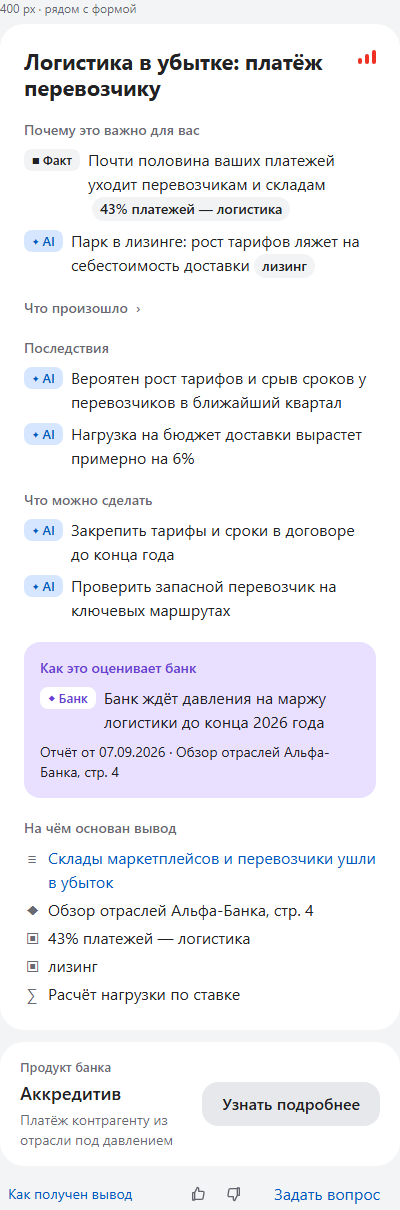
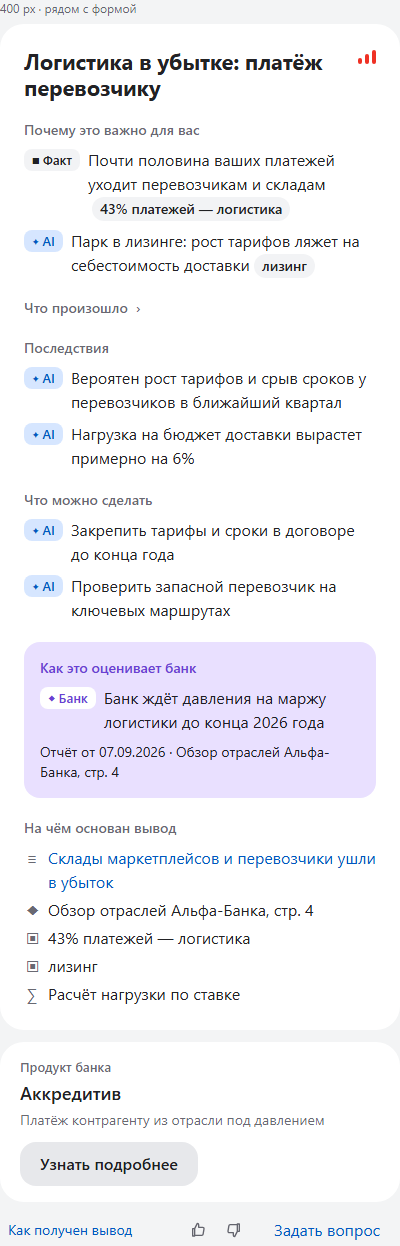
- Главная без растянутых пустот: строки сетки по содержимому, события ленты идут подряд, плитки счёта, платежа, депозита и кредитов по высоте содержимого; столбики на плитке счёта компактнее и не наезжают на номер счёта - Заголовки внутри карточек («Платёж контрагенту», «Кредитный портфель») — 22 px

diff --git a/frontend/application/src/styles/dashboard.css b/frontend/application/src/styles/dashboard.css
@@ -1,14 +1,11 @@
 .dashboard-grid {
   display: grid;
   grid-template-columns: repeat(3, minmax(0, 1fr)) repeat(2, minmax(0, 0.9fr));
-  grid-template-rows: repeat(4, minmax(132px, 1fr));
   grid-template-areas:
-    "feed  feed  feed  acct    acct"
     "feed  feed  feed  acct    acct"
     "feed  feed  feed  pay     pay"
     "loans loans loans deposit deposit";
   gap: var(--s-4);
-  min-height: calc(100vh - var(--shell-top-h) - var(--s-4) - var(--s-12));
 }
 
 .quick-actions {
@@ -42,15 +39,6 @@
   list-style: none;
 }
 
-.feed-widget .events {
-  flex: 1;
-  grid-auto-rows: 1fr;
-}
-
-.feed-widget .event {
-  align-content: center;
-  padding: var(--s-3);
-}
 
 .event {
   display: grid;
@@ -117,20 +105,22 @@
   top: var(--s-6);
   right: var(--s-6);
   z-index: -1;
-  width: 104px;
-  height: 120px;
+  width: 72px;
+  height: 80px;
   background:
-    linear-gradient(var(--accent), var(--accent)) right bottom / 24px 100% no-repeat,
-    linear-gradient(#ffffff26, #ffffff26) right 40px bottom / 24px 68% no-repeat,
-    linear-gradient(#ffffff14, #ffffff14) right 80px bottom / 24px 38% no-repeat;
+    linear-gradient(var(--accent), var(--accent)) right bottom / 16px 100% no-repeat,
+    linear-gradient(#ffffff26, #ffffff26) right 28px bottom / 16px 68% no-repeat,
+    linear-gradient(#ffffff14, #ffffff14) right 56px bottom / 16px 38% no-repeat;
   border-radius: var(--r-sm);
   opacity: 0.9;
 }
 
 .account-head {
   display: flex;
+  flex-wrap: wrap;
   align-items: baseline;
-  gap: var(--s-3);
+  gap: 0 var(--s-3);
+  padding-right: calc(72px + var(--s-4));
   font-size: var(--fs-16);
   line-height: var(--lh-24);
 }
@@ -291,19 +281,11 @@
 @media (max-width: 1180px) {
   .dashboard-grid {
     grid-template-columns: repeat(3, minmax(0, 1fr));
-    grid-template-rows: none;
-    grid-auto-rows: minmax(120px, auto);
     grid-template-areas:
-      "feed    feed    acct"
       "feed    feed    acct"
       "pay     pay     pay"
       "deposit deposit deposit"
       "loans   loans   loans";
-    min-height: 0;
-  }
-
-  .quick-action {
-    min-height: 112px;
   }
 }
 
@@ -319,9 +301,6 @@
       "loans";
   }
 
-  .account {
-    min-height: 200px;
-  }
 
   .quick-action {
     flex-wrap: wrap;

diff --git a/frontend/application/src/styles/pages.css b/frontend/application/src/styles/pages.css
@@ -27,7 +27,7 @@
 
 .stats {
   display: grid;
-  grid-template-columns: repeat(3, minmax(0, 1fr));
+  grid-template-columns: minmax(0, 2fr) repeat(2, minmax(0, 1fr));
   gap: var(--s-4);
   margin-bottom: var(--s-4);
 }
@@ -309,6 +309,7 @@
 
 .login-top {
   display: flex;
+  flex-wrap: wrap;
   align-items: center;
   justify-content: space-between;
   gap: var(--s-3);
@@ -319,9 +320,31 @@
 }
 
 @media (max-width: 960px) {
-  .page-grid,
-  .stats {
+  .page-grid {
     grid-template-columns: minmax(0, 1fr);
+  }
+
+  .stats {
+    grid-template-columns: repeat(2, minmax(0, 1fr));
+  }
+
+  .stat:first-child {
+    grid-column: 1 / -1;
+  }
+
+  .stat strong {
+    font-size: var(--fs-22);
+    line-height: var(--lh-26);
+  }
+
+  .stat:first-child strong {
+    font-size: var(--fs-30);
+    line-height: var(--lh-36);
+  }
+
+  .portfolio th,
+  .portfolio td {
+    white-space: nowrap;
   }
 
   .page-grid > .form,
@@ -329,5 +352,20 @@
   .trace-card,
   .login {
     padding: var(--s-6);
+  }
+
+  .trace-step summary {
+    display: grid;
+    grid-template-columns: minmax(0, 1fr) auto;
+  }
+
+  .trace-step summary::after {
+    grid-column: 2;
+    grid-row: 1;
+    margin-left: var(--s-3);
+  }
+
+  .trace-step-meta {
+    grid-column: 1;
   }
 }

diff --git a/frontend/app-plugin/src/styles/panel.css b/frontend/app-plugin/src/styles/panel.css
@@ -1,5 +1,6 @@
 .insight-panel {
   position: relative;
+  container: insight-panel / inline-size;
   display: grid;
   gap: var(--s-3);
   min-width: 0;
@@ -335,14 +336,16 @@
   gap: var(--s-3);
 }
 
-.insight-panel-compact .product-offer {
-  grid-template-columns: minmax(0, 1fr);
-}
+@container insight-panel (max-width: 440px) {
+  .product-offer {
+    grid-template-columns: minmax(0, 1fr);
+  }
 
-.insight-panel-compact .product-offer .button-secondary {
-  grid-column: 1;
-  grid-row: auto;
-  margin-top: var(--s-2);
+  .product-offer .button-secondary {
+    grid-column: 1;
+    grid-row: auto;
+    margin-top: var(--s-2);
+  }
 }
 
 @media (prefers-reduced-motion: reduce) {

diff --git a/frontend/application/src/styles/base.css b/frontend/application/src/styles/base.css
@@ -35,13 +35,6 @@ h1 {
   letter-spacing: -0.2px;
 }
 
-.form > h2,
-.table-head h2 {
-  font-size: var(--fs-30);
-  line-height: var(--lh-36);
-  letter-spacing: -0.45px;
-}
-
 a {
   color: var(--link);
   text-decoration: none;

diff --git a/frontend/application/src/styles/layout.css b/frontend/application/src/styles/layout.css
@@ -161,6 +161,10 @@
   color: var(--text-primary);
 }
 
+.main-nav a.active:has(.nav-count) {
+  gap: var(--s-4);
+}
+
 .main-nav a.active {
   width: auto;
   padding: 0 var(--s-4) 0 var(--s-3);
